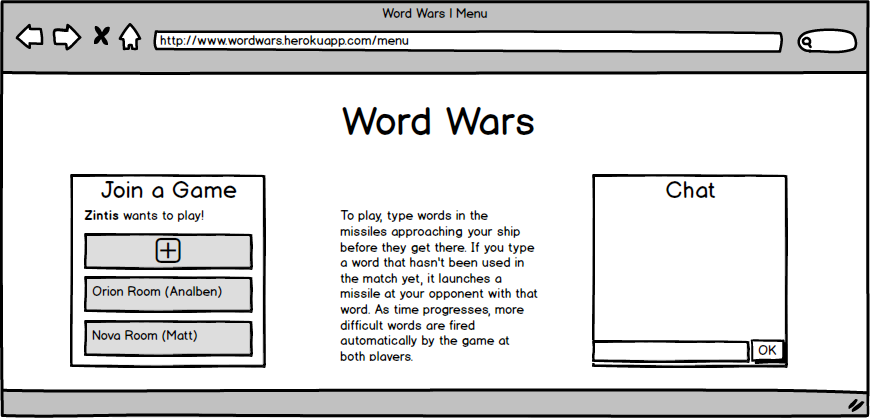
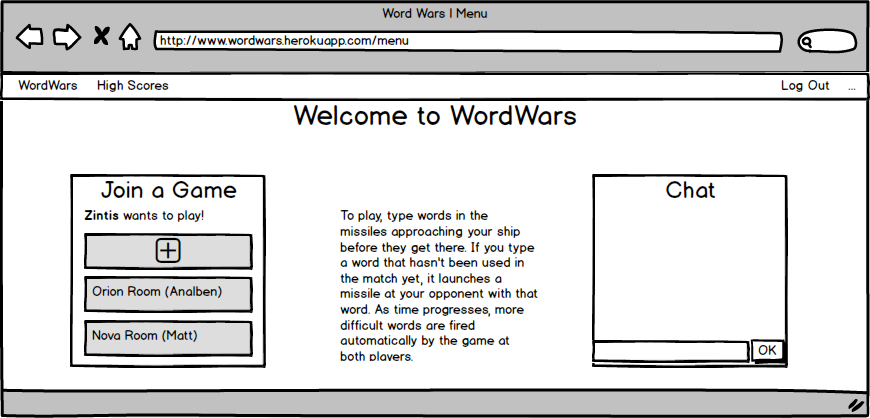
edited menu layout, edited mockups

Changed region(s): [[0.0, 0.1555, 1.0, 0.3421], [0.2483, 0.1555, 0.4655, 0.1866]]

diff --git a/app/public/menu.html b/app/public/menu.html
@@ -28,7 +28,7 @@
 </nav>
 <div class="container">
 	<div class="row">
-		<div class="col-md-4 col-md-offset-4">
+		<div class="col-md-12">
 			<div class="page-header">
 			  <h1 class="text-center">Welcome to WordWars</h1>
 			  <p class="text-center">A head-to-head typing game for 2 players.</p>
